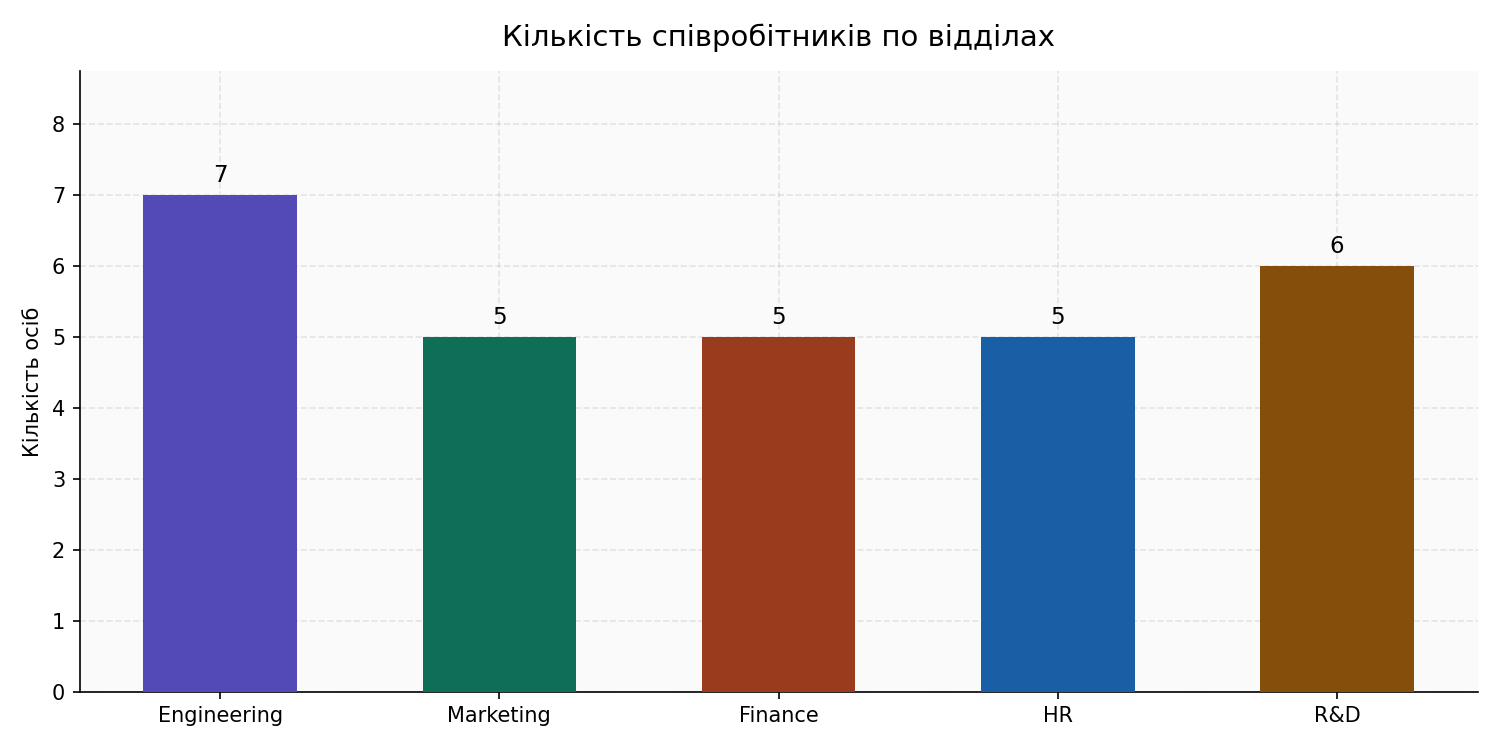
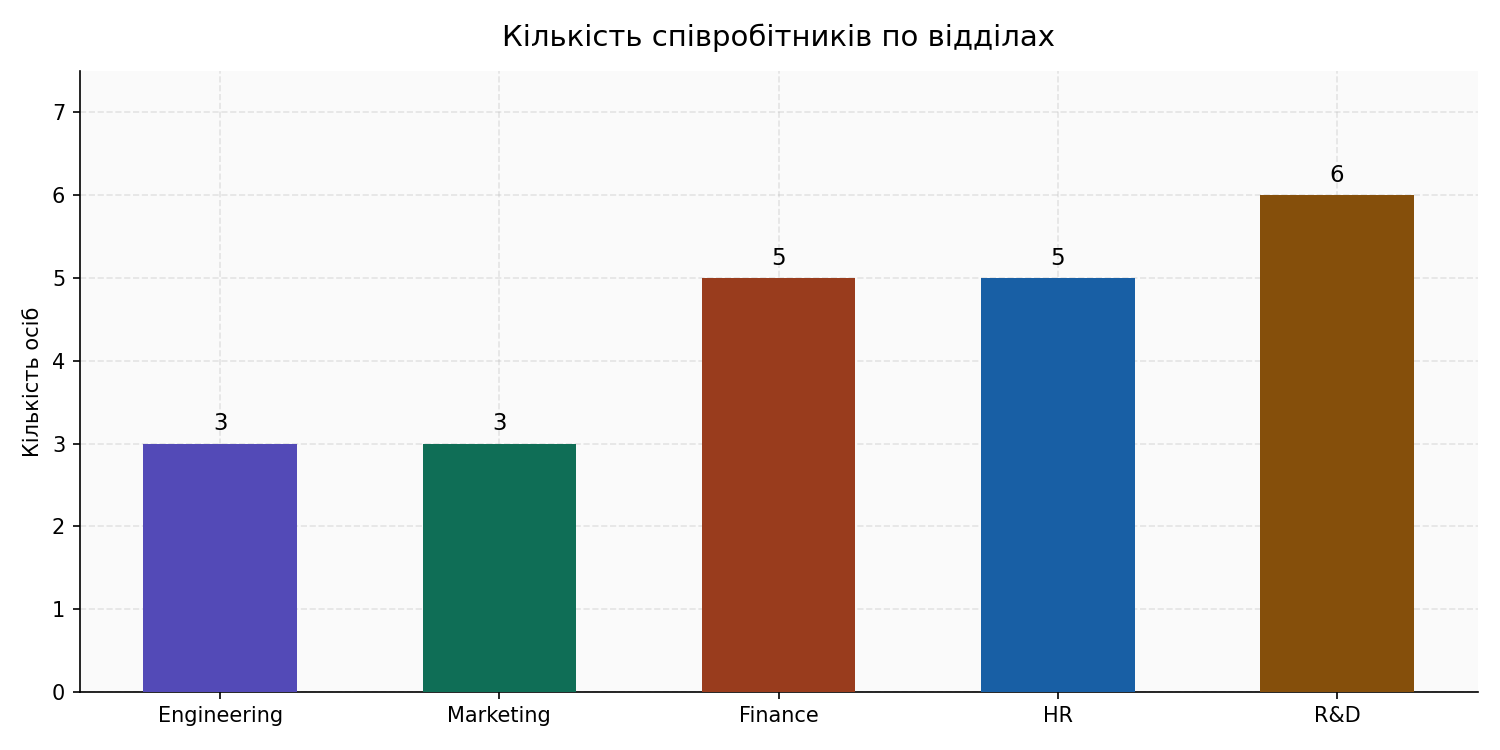
a

diff --git a/factory.py b/factory.py
@@ -3,13 +3,13 @@ Factory Method Pattern — DBConnectionFactory.
 Створює конкретні підключення до БД за типом.
 Підтримує реєстрацію нових типів без зміни коду фабрики.
 """
-
 from __future__ import annotations
 from abc import ABC, abstractmethod
 from typing import Callable, Type
 from builder import ConnectionConfig
 from employees import Employee
-
+import psycopg2
+import redis
 
 class DatabaseConnection(ABC):
     """Абстрактний клас підключення до БД."""
@@ -51,75 +51,92 @@ class DatabaseConnection(ABC):
 # ──────────────────────────────────────────────
 
 class PostgreSQLConnection(DatabaseConnection):
-    """
-    Підключення до PostgreSQL.
-    У реальному проєкті використовується psycopg2 або asyncpg.
-    Тут емулюємо дані відділу Engineering.
-    """
-
     def _connection_string(self) -> str:
         cfg = self.config
-        return (f"postgresql://{cfg.get('user')}:***@"
-                f"{cfg.get('host')}:{cfg.get('port')}/{cfg.get('database')}")
+        return f"postgresql://{cfg.get('user')}:***@{cfg.get('host')}:{cfg.get('port')}/{cfg.get('database')}"
 
     def fetch_employees(self) -> list[Employee]:
         from employees import Manager, OfficeClerk, SalesManager, SysAdmin
-        # Симуляція SQL-запиту: SELECT * FROM employees WHERE department='Engineering'
-        return [
-            Manager(1,  "Alice Koval",       "Engineering", 5000, 0.20),
-            Manager(2,  "Borys Shevchenko",  "Engineering", 5500, 0.18),
-            OfficeClerk(3,  "Daryna Melnyk",     "Engineering", 25.0, 168),
-            OfficeClerk(4,  "Oleh Bondarenko",   "Engineering", 22.0, 160),
-            SysAdmin(5,  "Ivan Pavlenko",     "Engineering", 4500, 40, 30),
-            SysAdmin(6,  "Natalia Kravchenko","Engineering", 4200, 35, 28),
-            SalesManager(7, "Yulia Fedorenko",  "Engineering", 3000, 0.05, 80_000),
-        ]
-
+        cfg = self.config
+        # Підключення до бази, яку ми створили в Docker/CMD
+        conn = psycopg2.connect(
+            host=cfg.get('host'),
+            port=cfg.get('port'),
+            database=cfg.get('database'),
+            user=cfg.get('user'),
+            password=cfg.get('password')
+        )
+        employees = []
+        with conn.cursor() as cur:
+            cur.execute("SELECT id, name, department, role, base_salary, bonus, hourly_rate, hours_per_month, commission_rate, monthly_sales, on_call_hours, on_call_rate FROM employees")
+            for row in cur.fetchall():
+                # Логіка створення об'єктів залежно від ролі (role)
+                eid, name, dept, role, sal, bonus, h_rate, h_month, c_rate, sales, oc_h, oc_r = row
+                if role == "Manager":
+                    employees.append(Manager(eid, name, dept, float(sal), float(bonus)))
+                elif role == "SysAdmin":
+                    employees.append(SysAdmin(eid, name, dept, float(sal), float(oc_h), float(oc_r)))
+                # Додайте інші ролі аналогічно
+        conn.close()
+        return employees
 
 class RedisConnection(DatabaseConnection):
-    """
-    Підключення до Redis.
-    У реальному проєкті використовується redis-py.
-    Redis зберігає JSON-хеші, тут емулюємо відділ Marketing.
-    """
-
     def _connection_string(self) -> str:
         cfg = self.config
         return f"redis://{cfg.get('host')}:{cfg.get('port')}/db{cfg.get('db', 0)}"
 
     def fetch_employees(self) -> list[Employee]:
-        from employees import Manager, OfficeClerk, SalesManager, SysAdmin
-        # Симуляція: HGETALL employee:* з Redis
-        return [
-            Manager(8,  "Andriy Tkachenko",  "Marketing", 4800, 0.25),
-            OfficeClerk(9,  "Svitlana Kovalenko","Marketing", 20.0, 176),
-            SalesManager(10, "Roman Petrenko",   "Marketing", 2800, 0.07, 120_000),
-            SalesManager(11, "Kateryna Lysenko",  "Marketing", 3200, 0.06,  95_000),
-            SysAdmin(12, "Mykola Moroz",      "Marketing", 4000, 20, 32),
-        ]
+        from employees import Manager, SalesManager, SysAdmin
+        cfg = self.config
+        r = redis.Redis(host=cfg.get('host'), port=cfg.get('port'), db=cfg.get('db', 0), decode_responses=True)
+
+        employees = []
+        # Шукаємо всі ключі співробітників, які ми вводили через HSET
+        for key in r.scan_iter("employee:*"):
+            data = r.hgetall(key)
+            eid = int(key.split(":")[-1])
+            role = data.get("role")
+
+            if role == "Manager":
+                employees.append(Manager(eid, data['name'], data['dept'], float(data['salary']), float(data['bonus'])))
+            elif role == "SalesManager":
+                employees.append(SalesManager(eid, data['name'], data['dept'], float(data['salary']), float(data['commission']), float(data['sales'])))
+            elif role == "SysAdmin":
+                employees.append(SysAdmin(eid, data['name'], data['dept'], float(data['salary']), float(data['on_call_hours']), float(data['on_call_rate'])))
+        return employees
+
+
+import pandas as pd
 
 
 class ExcelConnection(DatabaseConnection):
-    """
-    Підключення до Excel-файлу.
-    У реальному проєкті використовується openpyxl або pandas.
-    Тут емулюємо читання аркуша Finance.xlsx.
-    """
 
-    def _connection_string(self) -> str:
-        return f"excel://{self.config.get('file_path', 'employees.xlsx')}"
 
     def fetch_employees(self) -> list[Employee]:
         from employees import Manager, OfficeClerk, SalesManager, SysAdmin
-        # Симуляція читання рядків з Excel-аркуша
-        return [
-            Manager(13, "Iryna Savchenko",   "Finance", 5200, 0.22),
-            OfficeClerk(14, "Vasyl Rudenko",     "Finance", 24.0, 172),
-            OfficeClerk(15, "Oksana Karpenko",   "Finance", 23.0, 168),
-            SalesManager(16, "Serhiy Hrytsenko",  "Finance", 3100, 0.04, 60_000),
-            SysAdmin(17, "Tetyana Marchenko", "Finance", 4300, 50, 27),
-        ]
 
+
+        file_path = self.config.get('file_path', 'data/Finance.xlsx')
+        # Читаємо Excel через pandas
+        df = pd.read_excel(file_path, sheet_name=self.config.get('sheet_name', 0))
+
+        employees = []
+        for _, row in df.iterrows():
+            role = row['role']
+            eid, name, dept = int(row['id']), str(row['name']), str(row['department'])
+
+            if role == "Manager":
+                employees.append(Manager(eid, name, dept, float(row['base_salary']), float(row['bonus'])))
+            elif role == "OfficeClerk":
+                employees.append(OfficeClerk(eid, name, dept, float(row['hourly_rate']), float(row['hours_per_month'])))
+            elif role == "SalesManager":
+                employees.append(SalesManager(eid, name, dept, float(row['base_salary']), float(row['commission_rate']),
+                                              float(row['monthly_sales'])))
+            elif role == "SysAdmin":
+                employees.append(SysAdmin(eid, name, dept, float(row['base_salary']), float(row['on_call_hours']),
+                                          float(row['on_call_rate'])))
+
+        return employees
 
 # ──────────────────────────────────────────────
 # Фабрика

diff --git a/main.py b/main.py
@@ -44,25 +44,22 @@ registry2 = ConnectionRegistry()
 assert registry is registry2, "Singleton порушено!"
 print("[Singleton] ConnectionRegistry — той самий об'єкт:", id(registry))
 
-# ══════════════════════════════════════════════════════════════
-# 2. BUILDER — будуємо конфігурації підключень
-# ══════════════════════════════════════════════════════════════
+# PostgreSQL (Engineering)
 pg_config = (ConnectionBuilder()
              .set_type("postgresql")
-             .set_host("pg.company.ua")
+             .set_host("localhost")
              .set_port(5432)
-             .set_database("hrm_db")
-             .set_credentials("hr_user", "s3cur3pass")
+             .set_database("postgres")
+             .set_credentials("postgres", "123 ")
              .build())
 
+# Redis (Marketing)
 redis_config = (ConnectionBuilder()
                 .set_type("redis")
-                .set_host("redis.company.ua")
+                .set_host("localhost")
                 .set_port(6379)
-                .set_option("db", 2)
-                .set_option("password", "r3dis_pass")
+                .set_option("db", 0)
                 .build())
-
 excel_config = (ConnectionBuilder()
                 .set_type("excel")
                 .set_option("file_path", "data/Finance.xlsx")
